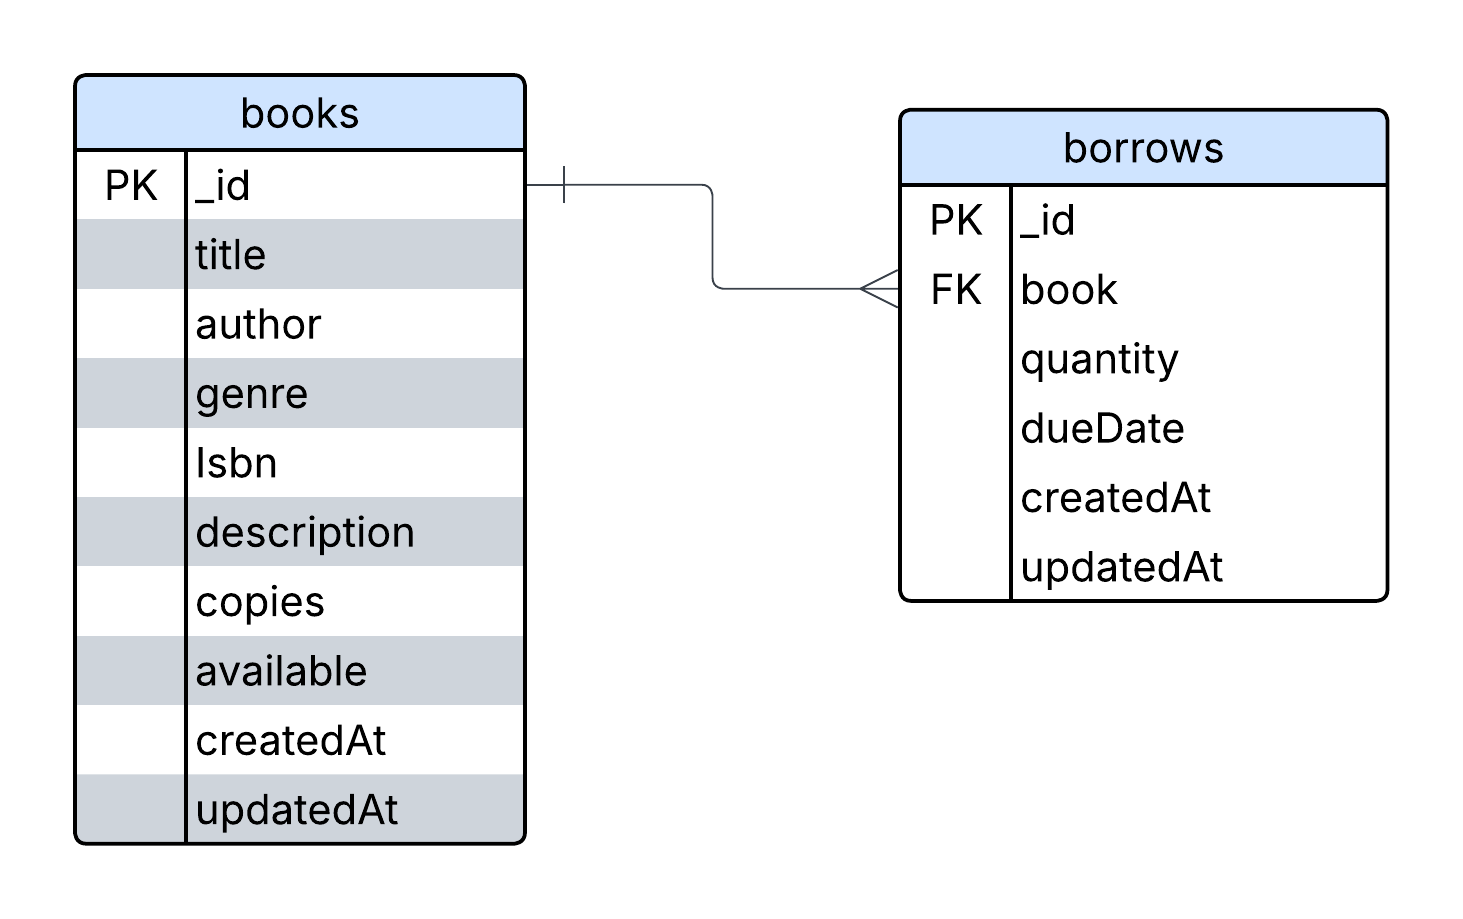
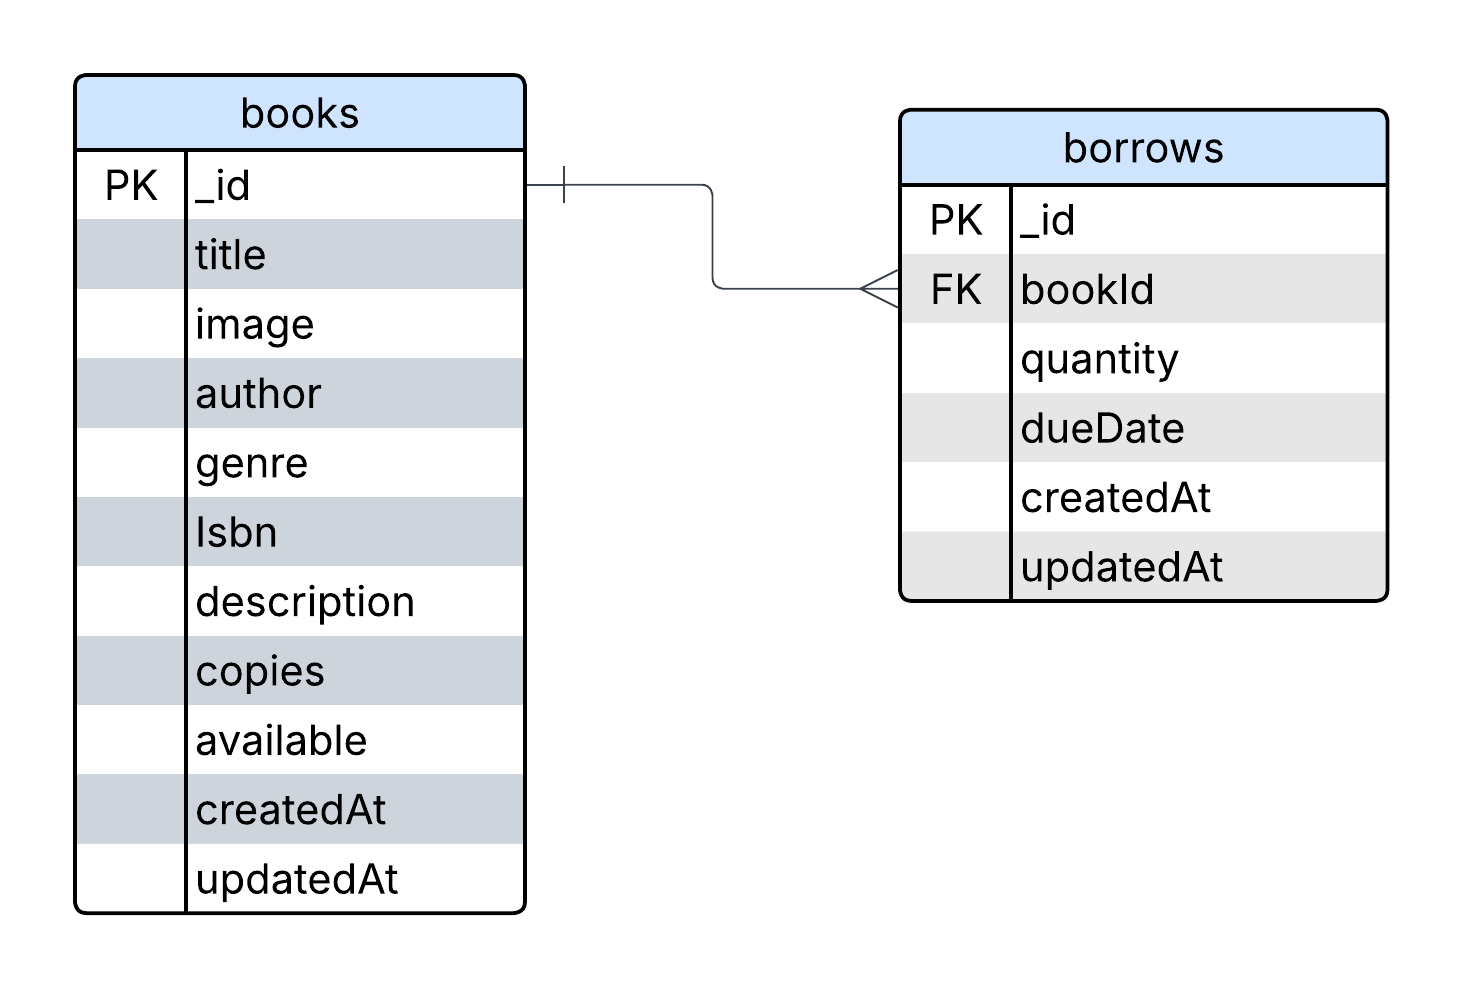
readme.md file updated

Changed region(s): [[0.0308, 0.0609, 0.3691, 0.9445], [0.4921, 0.0914, 0.9535, 0.6703], [0.3691, 0.1828, 0.4921, 0.2133]]

diff --git a/README.md b/README.md
@@ -32,18 +32,20 @@ git clone https://github.com/Mdafsarx/Library-management-server
 cd Library-management-server
 
 # 2. Install dependencies
-npm install
+bun install
 
 # 3. Set up environment variables
 touch .env
 ```
 
 ### `.env` Example:
+
 ```
 PORT = 4000
 DB_NAME = ******
 DB_PASSWORD = *****
 ```
+
 ## 📂 Folder Structure
 
 ```sh
@@ -69,7 +71,7 @@ LIBRARY-MANAGEMENT-SERVER/
 ├── .prettierrc.json             # Prettier config
 ├── erdiagram.png                # ER diagram image
 ├── eslint.config.mjs            # ESLint configuration
-├── package-lock.json            # NPM lockfile
+├── bun.lock                     # bun lockfile
 ├── package.json                 # Project metadata and scripts
 ├── README.md                    # Project documentation
 ├── tsconfig.json                # TypeScript compiler config
@@ -86,11 +88,12 @@ http://localhost:5000/api
 
 ### 1. Create a Book
 
-**POST** `/api/books`
+**POST** `/api/create-book`
 
 ```json
 {
   "title": "The Theory of Everything",
+  "image": "https://res.cloudinary.com/dz1fy2tof/image/upload/v1751522624/download_n8dmde.jpg",
   "author": "Stephen Hawking",
   "genre": "SCIENCE",
   "isbn": "9780553380163",
@@ -105,6 +108,7 @@ http://localhost:5000/api
 **GET** `/api/books?filter=SCIENCE&sortBy=createdAt&sort=desc&limit=5`
 
 Supports:
+
 - `filter` (genre)
 - `sortBy` (e.g., createdAt)
 - `sort` (asc|desc)
@@ -112,11 +116,11 @@ Supports:
 
 ### 3. Get Book by ID
 
-**GET** `/api/books/:bookId`
+**GET** `/api/books/:id`
 
 ### 4. Update Book
 
-**PUT** `/api/books/:bookId`
+**PUT** `/api/edit-book/:id`
 
 ```json
 {
@@ -126,28 +130,29 @@ Supports:
 
 ### 5. Delete Book
 
-**DELETE** `/api/books/:bookId`
+**DELETE** `/api/delete-book/:id`
 
 ### 6. Borrow a Book
 
-**POST** `/api/borrow`
+**POST** `/api/borrow/:bookId`
 
 ```json
 {
-  "book": "64ab3f9e2a4b5c6d7e8f9012",
+  "bookId": "64ab3f9e2a4b5c6d7e8f9012",
   "quantity": 2,
   "dueDate": "2025-07-18T00:00:00.000Z"
 }
 ```
 
 📌 Business Logic:
+
 - Quantity must be less than or equal to available copies
 - Deduct copies automatically
 - If copies become 0, set `available = false`
 
 ### 7. Borrowed Books Summary
 
-**GET** `/api/borrow`
+**GET** `/api/borrow-summary`
 
 📌 Uses MongoDB Aggregation to return:
 
@@ -169,6 +174,7 @@ Supports:
 
 | Field         | Type      | Required | Validation                                                                     |
 | ------------- | --------- | -------- | ------------------------------------------------------------------------------ |
+| `image`       | `string`  | `Yes`    | Must be a valid URL string                                                     |
 | `title`       | `string`  | `Yes`    | —                                                                              |
 | `author`      | `string`  | `Yes`    | —                                                                              |
 | `genre`       | `enum`    | `Yes`    | One of: `FICTION`, `NON_FICTION`, `SCIENCE`, `HISTORY`, `BIOGRAPHY`, `FANTASY` |
@@ -176,12 +182,13 @@ Supports:
 | `description` | `string`  | `No`     | Optional field                                                                 |
 | `copies`      | `number`  | `Yes`    | Must be an integer ≥ 0                                                         |
 | `available`   | `boolean` | `No`     | Optional field, defaults to `true` if not provided                             |
+|  |
 
 ### Borrow Schema
 
 | Field      | Type       | Required | Validation           |
 | ---------- | ---------- | -------- | -------------------- |
-| `book`     | `ObjectId` | `Yes`    | Must be a valid book |
+| `bookId`   | `ObjectId` | `Yes`  | Must be a valid book |
 | `quantity` | `number`   | `Yes`    | Must be positive     |
 | `dueDate`  | `Date`     | `Yes`    | Future date required |
 
